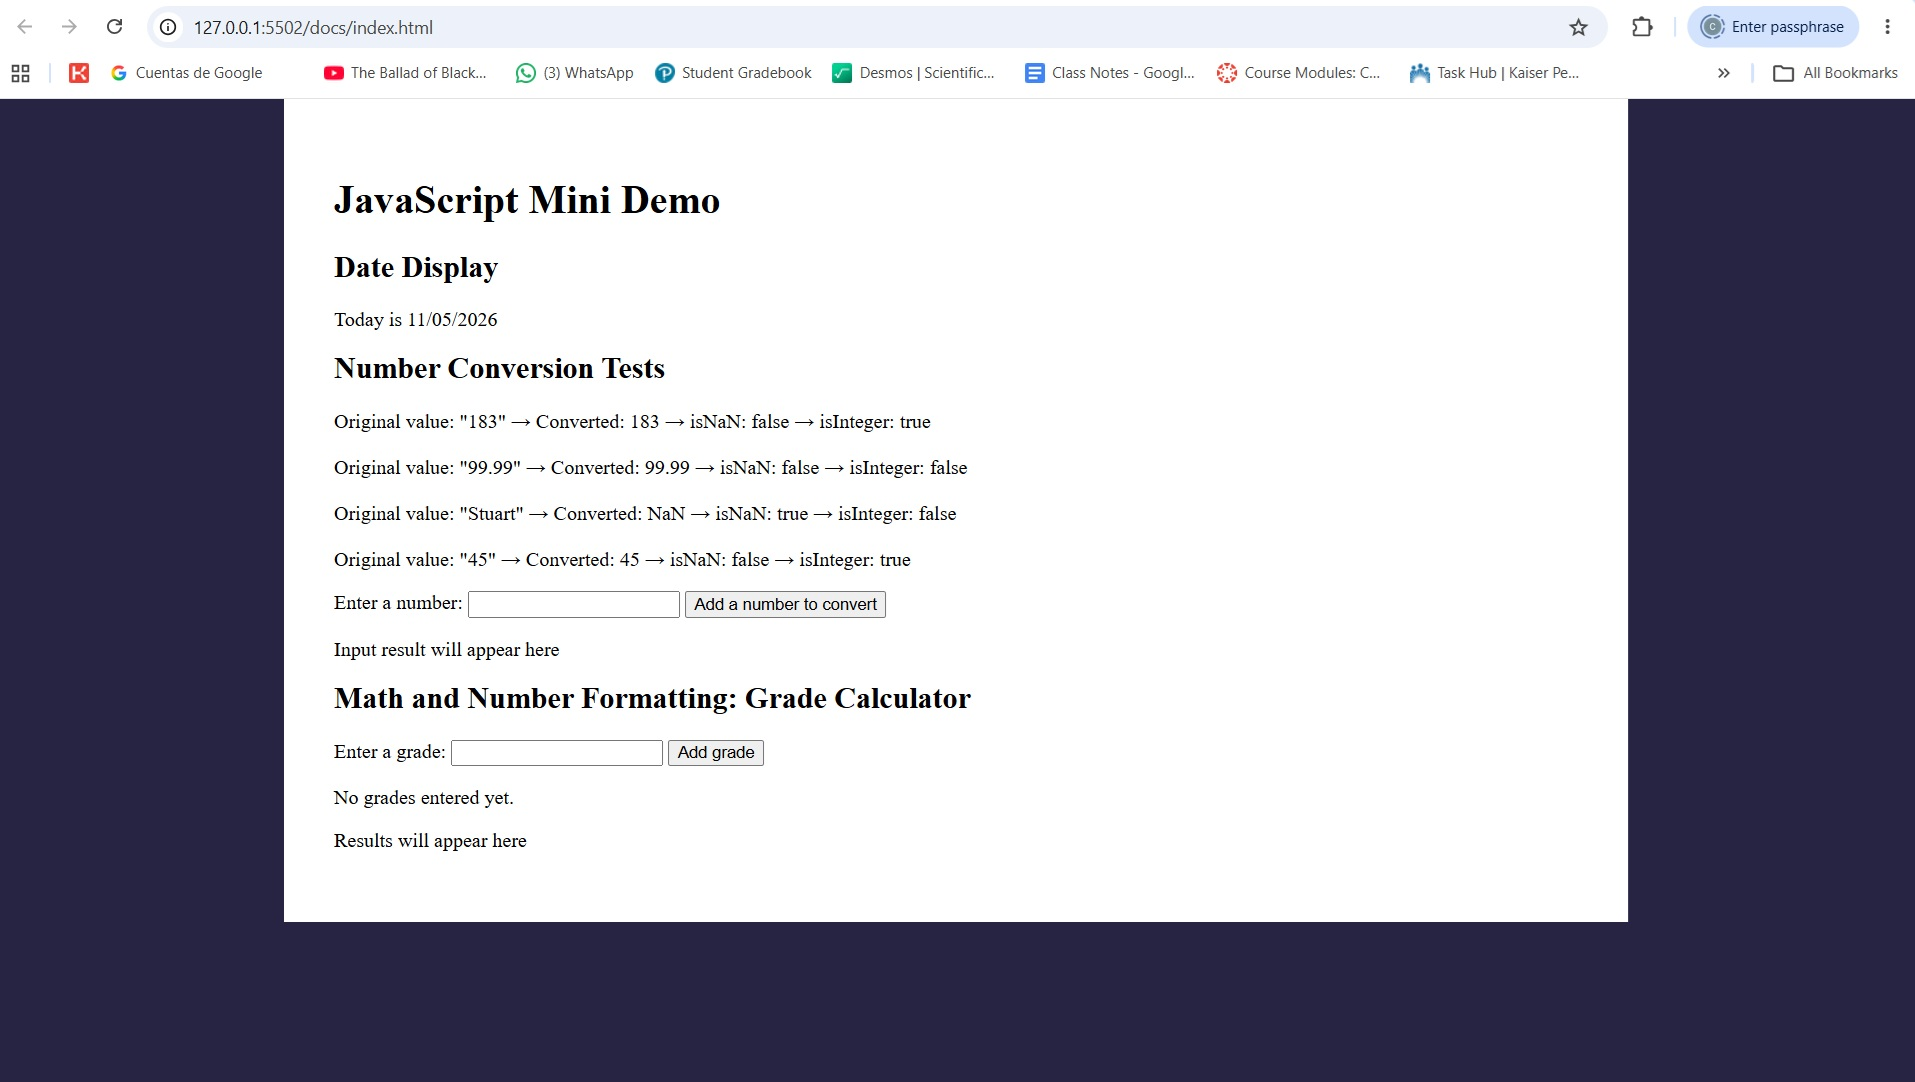
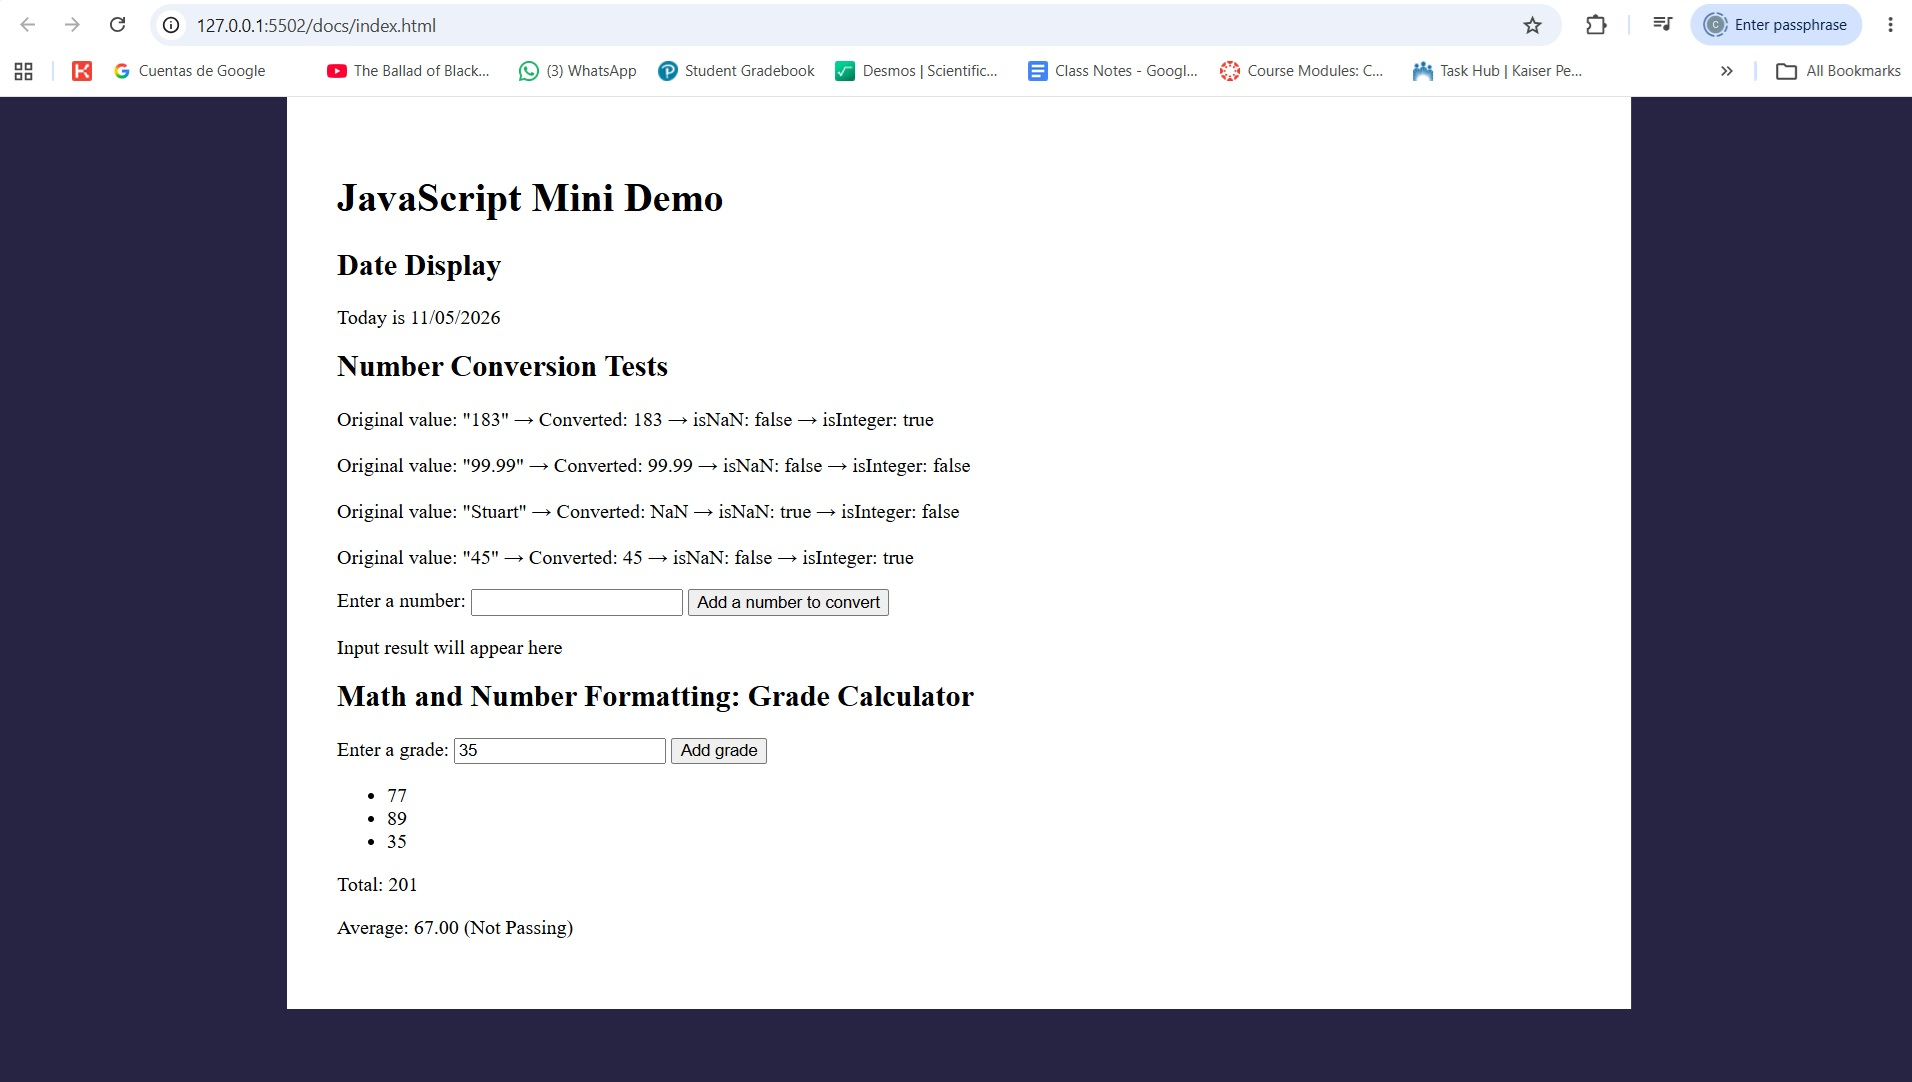
Updated new Image

diff --git a/README.md b/README.md
@@ -10,7 +10,7 @@ This homework 9 consisted of implementing JavaScript built-in objects and browse
 
 ## Built-in Objects and Methods
 
-- `Date` and `Date.toLocaleDateString()` format the current date. Date was seen in class, but the format wasnt addecuate. First attemp wasnt good, so I went to the official Npm page to look how to get it to the proper format. Found .toLocalDateString() with the desired format, and changed parameters to adjust to US and the asked 2-digit day/month requierement.s
+- `Date` and `Date.toLocaleDateString()` format the current date. Date was seen in class, but the format wasnt addecuate. First attemp wasnt good, so I went to the official Mpn page to look how to get it to the proper format. Found .toLocalDateString() with the desired format, and changed parameters to adjust to US and the asked 2-digit day/month requierement.(toLocalDateString() https://developer.mozilla.org/en-US/docs/Web/JavaScript/Reference/Global_Objects/Date/toLocaleDateString) 
 
 - `Number()`, `Number.isNaN()`, and `Number.isInteger()` convert and validate values. Number() converts, Is.NaN() checks if it is Not a Number(NaN), and .isInteger() checks if its an integer(number).
 
